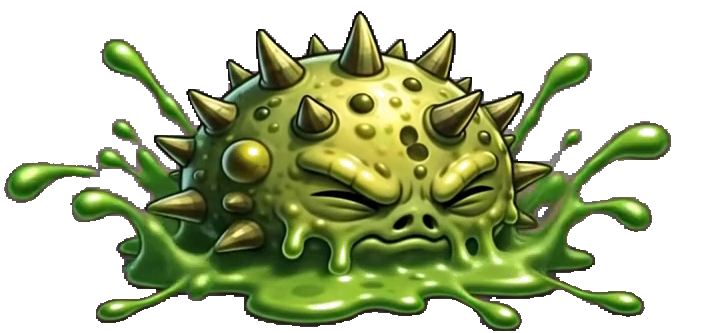
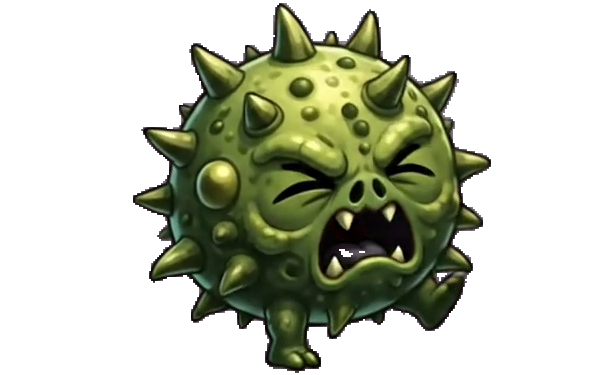
Add the Micro Mold's new video animations: Big Spore Shot, Enraged, Death Fade
The Micro Mold is already in the game, so this wires in the new clips from
its expanded video (added as source V4 in cut_micromold.py):

- BIG SPORE SHOT — replaces the basic spore-burst as the attack pose (the
  mold spews a big spore ball); the fired spore is a touch bigger/faster.
- ENRAGED (rare) — new red-eyed flame-aura state, driven by an ANIMATED_CFG
  'enrage_hp' threshold: once wounded to <=1 HP the mold goes enraged
  (aura clip plays) and pushes in ~22% quicker.
- DEATH FADE — death is now a two-beat FX: splat bursts, then the goo
  flattens/thins (fade clip), via the death_fx timeline.
- Refreshed hurt/splat from the new video (hurt kept on the clean V1 cut).

All data-driven through the animated-character framework (enrage_hp + the
new clip states), so it stays generic. Selftest robustly green (6/6).
START_HERE updated for enrage_hp / _enraged / _fade.

Claude-Session: https://claude.ai/code/session_01C7stTX2MiAL5f8VZvZr1zp

diff --git a/games/mold_mission/mold_mission.py b/games/mold_mission/mold_mission.py
@@ -575,8 +575,8 @@ ENEMY_ASSET = {
 #   atk          None, or dict(rng=(near,far), cd=(min,max), spd, dmg) spore burst
 ANIMATED_CFG = {
     "micromold": dict(w=28, h=26, hp=2, dmg=3, walk=120, run=172, far=340,
-                      hop_v=285, hop_cd=(1.2, 2.6),
-                      atk=dict(rng=(44, 240), cd=(2.8, 4.4), spd=155, dmg=2)),
+                      hop_v=285, hop_cd=(1.2, 2.6), enrage_hp=1,
+                      atk=dict(rng=(44, 260), cd=(2.6, 4.2), spd=175, dmg=2)),
 }
 ANIMATED_ENEMIES = tuple(ANIMATED_CFG)
 
@@ -584,8 +584,8 @@ ANIMATED_ENEMIES = tuple(ANIMATED_CFG)
 # character, so a new one animates at sensible speeds with no bespoke ANIM_FPS
 # entries. "" is the bare idle clip (<kind>_0..N).
 ANIM_STATE_FPS = {"": 7, "walk": 13, "run": 15, "jump": 10, "fall": 10,
-                  "land": 14, "turn": 12, "hop": 10, "attack": 14,
-                  "hurt": 12, "stun": 8, "splat": 12}
+                  "land": 14, "turn": 12, "hop": 10, "attack": 13,
+                  "hurt": 12, "stun": 8, "splat": 12, "fade": 9, "enraged": 9}
 
 # Ground-hugging crawlers that are armoured on top: standing fire pings off, you
 # must CROUCH to shoot them out. Kept to single-placed low enemies (never the
@@ -766,6 +766,11 @@ class Enemy:
             # on the character's own ground lane, so it can't fall down a pit. This
             # one branch animates ANY new animated character dropped into a level.
             c = ANIMATED_CFG[self.kind]
+            # ENRAGED (rare): once wounded to its enrage threshold it goes red-eyed
+            # and pushes in a bit quicker (the enraged clip plays — see Enemy.draw).
+            eh = c.get("enrage_hp")
+            self.enraged = eh is not None and self.hp <= eh
+            rage = 1.22 if self.enraged else 1.0
             d = player.x - self.x
             face = 1 if d > 0 else -1
             ground = self.home_y
@@ -792,7 +797,7 @@ class Enemy:
             # run clip (speed lines) plays as it rushes in, then settles to the
             # walk cycle in melee range. Slows to a shuffle mid-turn.
             far = abs(d) > c["far"] and not self.mm_air
-            base = c["run"] if far else c["walk"]
+            base = (c["run"] if far else c["walk"]) * rage
             sp = base * (0.35 if self.turn_t > 0 else 1.0)
             nx = self.x + face * sp * dt
             self.x = max(20.0, min(LEVEL_W - self.w - 20.0, nx))   # stay on the map
@@ -1160,6 +1165,8 @@ class Enemy:
                 state = k + "_turn"
             elif getattr(self, "atk_anim", 0.0) > 0 and has("_attack"):
                 state = k + "_attack"
+            elif getattr(self, "enraged", False) and has("_enraged"):
+                state = k + "_enraged"                   # red-eyed rage aura
             elif abs(self.vx) > 150 and has("_run"):     # rushing in from afar
                 state = k + "_run"
             elif abs(self.vx) > 8 and has("_walk"):
@@ -3623,7 +3630,7 @@ class Game:
         # age out Micro Mold death splats (index 4 = elapsed time)
         for fx in self.death_fx:
             fx[4] += dt
-        self.death_fx = [fx for fx in self.death_fx if fx[4] < 0.42]
+        self.death_fx = [fx for fx in self.death_fx if fx[4] < 0.62]
         if in_acid and not p.dead:
             self.acid_tick = getattr(self, "acid_tick", 0.0) - dt
             if self.acid_tick <= 0:
@@ -4236,10 +4243,18 @@ class Game:
         # Micro Mold DEATH SPLATS: play the splat clip ONCE where each one died
         for fx in self.death_fx:
             cxf, feet, kind, asp, tt, hh, face = fx
-            seq = self.assets.anims.get(kind + "_splat")
+            # play the DEATH SPLAT (bursts into goo) then the DEATH FADE (the goo
+            # flattens and thins out), so a kill reads as a full two-beat death.
+            splat = self.assets.anims.get(kind + "_splat")
+            fade = self.assets.anims.get(kind + "_fade")
+            if tt < 0.28 or not fade:
+                seq = splat
+                prog = min(0.999, tt / 0.28)
+            else:
+                seq = fade
+                prog = min(0.999, (tt - 0.28) / 0.34)
             if not seq:
                 continue
-            prog = min(0.999, tt / 0.42)
             frame = seq[min(len(seq) - 1, int(prog * len(seq)))]
             self.assets.blit_char(s, frame, cxf - cam, feet, hh * CHAR_H,
                                   flip=face < 0,

diff --git a/games/mold_mission/cut_micromold.py b/games/mold_mission/cut_micromold.py
@@ -26,11 +26,14 @@ VID = {
     "V1": "/root/.claude/uploads/bd9207a8-f98b-5cb2-b956-cc56d2cddccc/026df666-gemini_generated_video_A240F980.mp4",
     "V2": "/root/.claude/uploads/bd9207a8-f98b-5cb2-b956-cc56d2cddccc/3bf597a3-gemini_generated_video_B4188FEB.mp4",
     "V3": "/root/.claude/uploads/bd9207a8-f98b-5cb2-b956-cc56d2cddccc/dd1eca11-gemini_generated_video_554AEEF4.mp4",
+    # V4 — the Micro Mold's expanded sheet: idle/walk/run/fall/land, BIG SPORE
+    # SHOT, death splat + FADE, respawn, and ENRAGED (rare).
+    "V4": "/root/.claude/uploads/bd9207a8-f98b-5cb2-b956-cc56d2cddccc/62f8fd61-gemini_generated_video_46F958C3.mp4",
 }
 OUT = "assets"
 
-# state key -> (video, first_frame, last_frame, n_frames). Ranges sit inside each
-# labelled section, trimmed off the transitions so the cycle loops cleanly.
+# state key -> (video, first_frame, last_frame, n_frames[, crop_top]). Ranges sit
+# inside each labelled section, trimmed off the transitions so cycles loop cleanly.
 CLIPS = {
     "micromold":         ("V3",   8,  40, 5),   # IDLE (settle / breathe)
     "micromold_walk":    ("V3",  44,  58, 8),   # WALK cycle — a clean single loop
@@ -43,10 +46,12 @@ CLIPS = {
     "micromold_land":    ("V3", 152, 170, 4),   # LAND — touchdown squash
     "micromold_turn":    ("V3", 174, 190, 3),   # TURN AROUND (reverse facing)
     "micromold_hop":     ("V3", 196, 210, 3),   # HOP — a little skip
-    "micromold_attack":  ("V3", 216, 236, 4),   # BASIC ATTACK — spore burst
-    "micromold_hurt":    ("V1", 170, 186, 3),   # HURT recoil
+    "micromold_attack":  ("V4", 118, 126, 3),   # BIG SPORE SHOT — spews the spore
+    "micromold_hurt":    ("V1", 170, 186, 3),   # HURT recoil (clean V1 source)
     "micromold_stun":    ("V1", 196, 230, 3),   # STUNNED (dizzy stars)
-    "micromold_splat":   ("V1",  48,  74, 4),   # CONTACT SPLAT — used as DEATH splat
+    "micromold_splat":   ("V4", 150, 164, 3),   # DEATH SPLAT — bursts into goo
+    "micromold_fade":    ("V4", 168, 180, 3),   # DEATH FADE — the goo flattens out
+    "micromold_enraged": ("V4", 216, 232, 3),   # ENRAGED (rare) — red-eyed, aura
 }
 
 _cache = {}

diff --git a/games/mold_mission/record_char_only.py b/games/mold_mission/record_char_only.py
@@ -31,10 +31,12 @@ SEQUENCE = [
     ("LAND", "_land", 1.1),
     ("TURN AROUND", "_turn", 1.3),
     ("HOP", "_hop", 1.3),
-    ("SPORE BURST (attack)", "_attack", 1.6),
+    ("BIG SPORE SHOT (attack)", "_attack", 1.8),
     ("HURT", "_hurt", 1.3),
     ("STUNNED", "_stun", 1.6),
-    ("DEATH SPLAT", "_splat", 1.6),
+    ("ENRAGED (rare)", "_enraged", 2.0),
+    ("DEATH SPLAT", "_splat", 1.4),
+    ("DEATH FADE", "_fade", 1.4),
 ]
 
 DRAW_H = 340          # on-stage height of the character

diff --git a/START_HERE.md b/START_HERE.md
@@ -303,13 +303,18 @@ conventions the game already relies on, and the `--selftest` bot depends on them
   with **zero code changes**. Three steps:
   1. **Cut its clips** with a `cut_<kind>.py` (copy `cut_micromold.py`) — feet-
      aligned on one canvas like Ty's, for the move-set: idle / walk / run / jump /
-     fall / land / turn / hop / attack / hurt / stun / splat, named
-     `<kind>_<state>_0..N` (bare `<kind>_0..N` = idle). Caption bleed
-     ("JUMP"/"FALL") is stripped by dropping near-white pixels + a `crop_top` band
-     on the airborne clips.
-  2. **Add one `ANIMATED_CFG` entry** (`w,h,hp,dmg,walk,run,far,hop_v,hop_cd,atk`)
-     and register the kind in `ENEMY_ASSET`. `ANIMATED_ENEMIES` is derived from
-     `ANIMATED_CFG`, so that's automatic.
+     fall / land / turn / hop / attack / hurt / stun / splat, plus optional
+     `enraged` + `fade` (2nd death beat), named `<kind>_<state>_0..N` (bare
+     `<kind>_0..N` = idle). Multiple source videos are fine (add them to the `VID`
+     map and point clips at whichever). Caption bleed ("JUMP"/"FALL") is stripped
+     by dropping near-white pixels + a `crop_top` band on the airborne clips; big
+     effect auras/projectiles just make a wider/taller canvas — the shared
+     `enemy_ref` (idle) scale keeps the body the right size, effects extend past.
+  2. **Add one `ANIMATED_CFG` entry** (`w,h,hp,dmg,walk,run,far,hop_v,hop_cd,atk`,
+     optional `enrage_hp`) and register the kind in `ENEMY_ASSET`.
+     `ANIMATED_ENEMIES` is derived from `ANIMATED_CFG`, so that's automatic. With
+     `enrage_hp` set, the mob goes red-eyed + a bit faster at/below that HP and the
+     `_enraged` clip plays; a `_fade` clip makes death a splat→fade two-beat.
   3. **Place `Enemy("<kind>", x, y)`** anywhere in `build_level` — on the ground
      OR on a platform/ledge (it hops and lands on its own spawn lane = `home_y`,
      so it can't fall down a pit).
